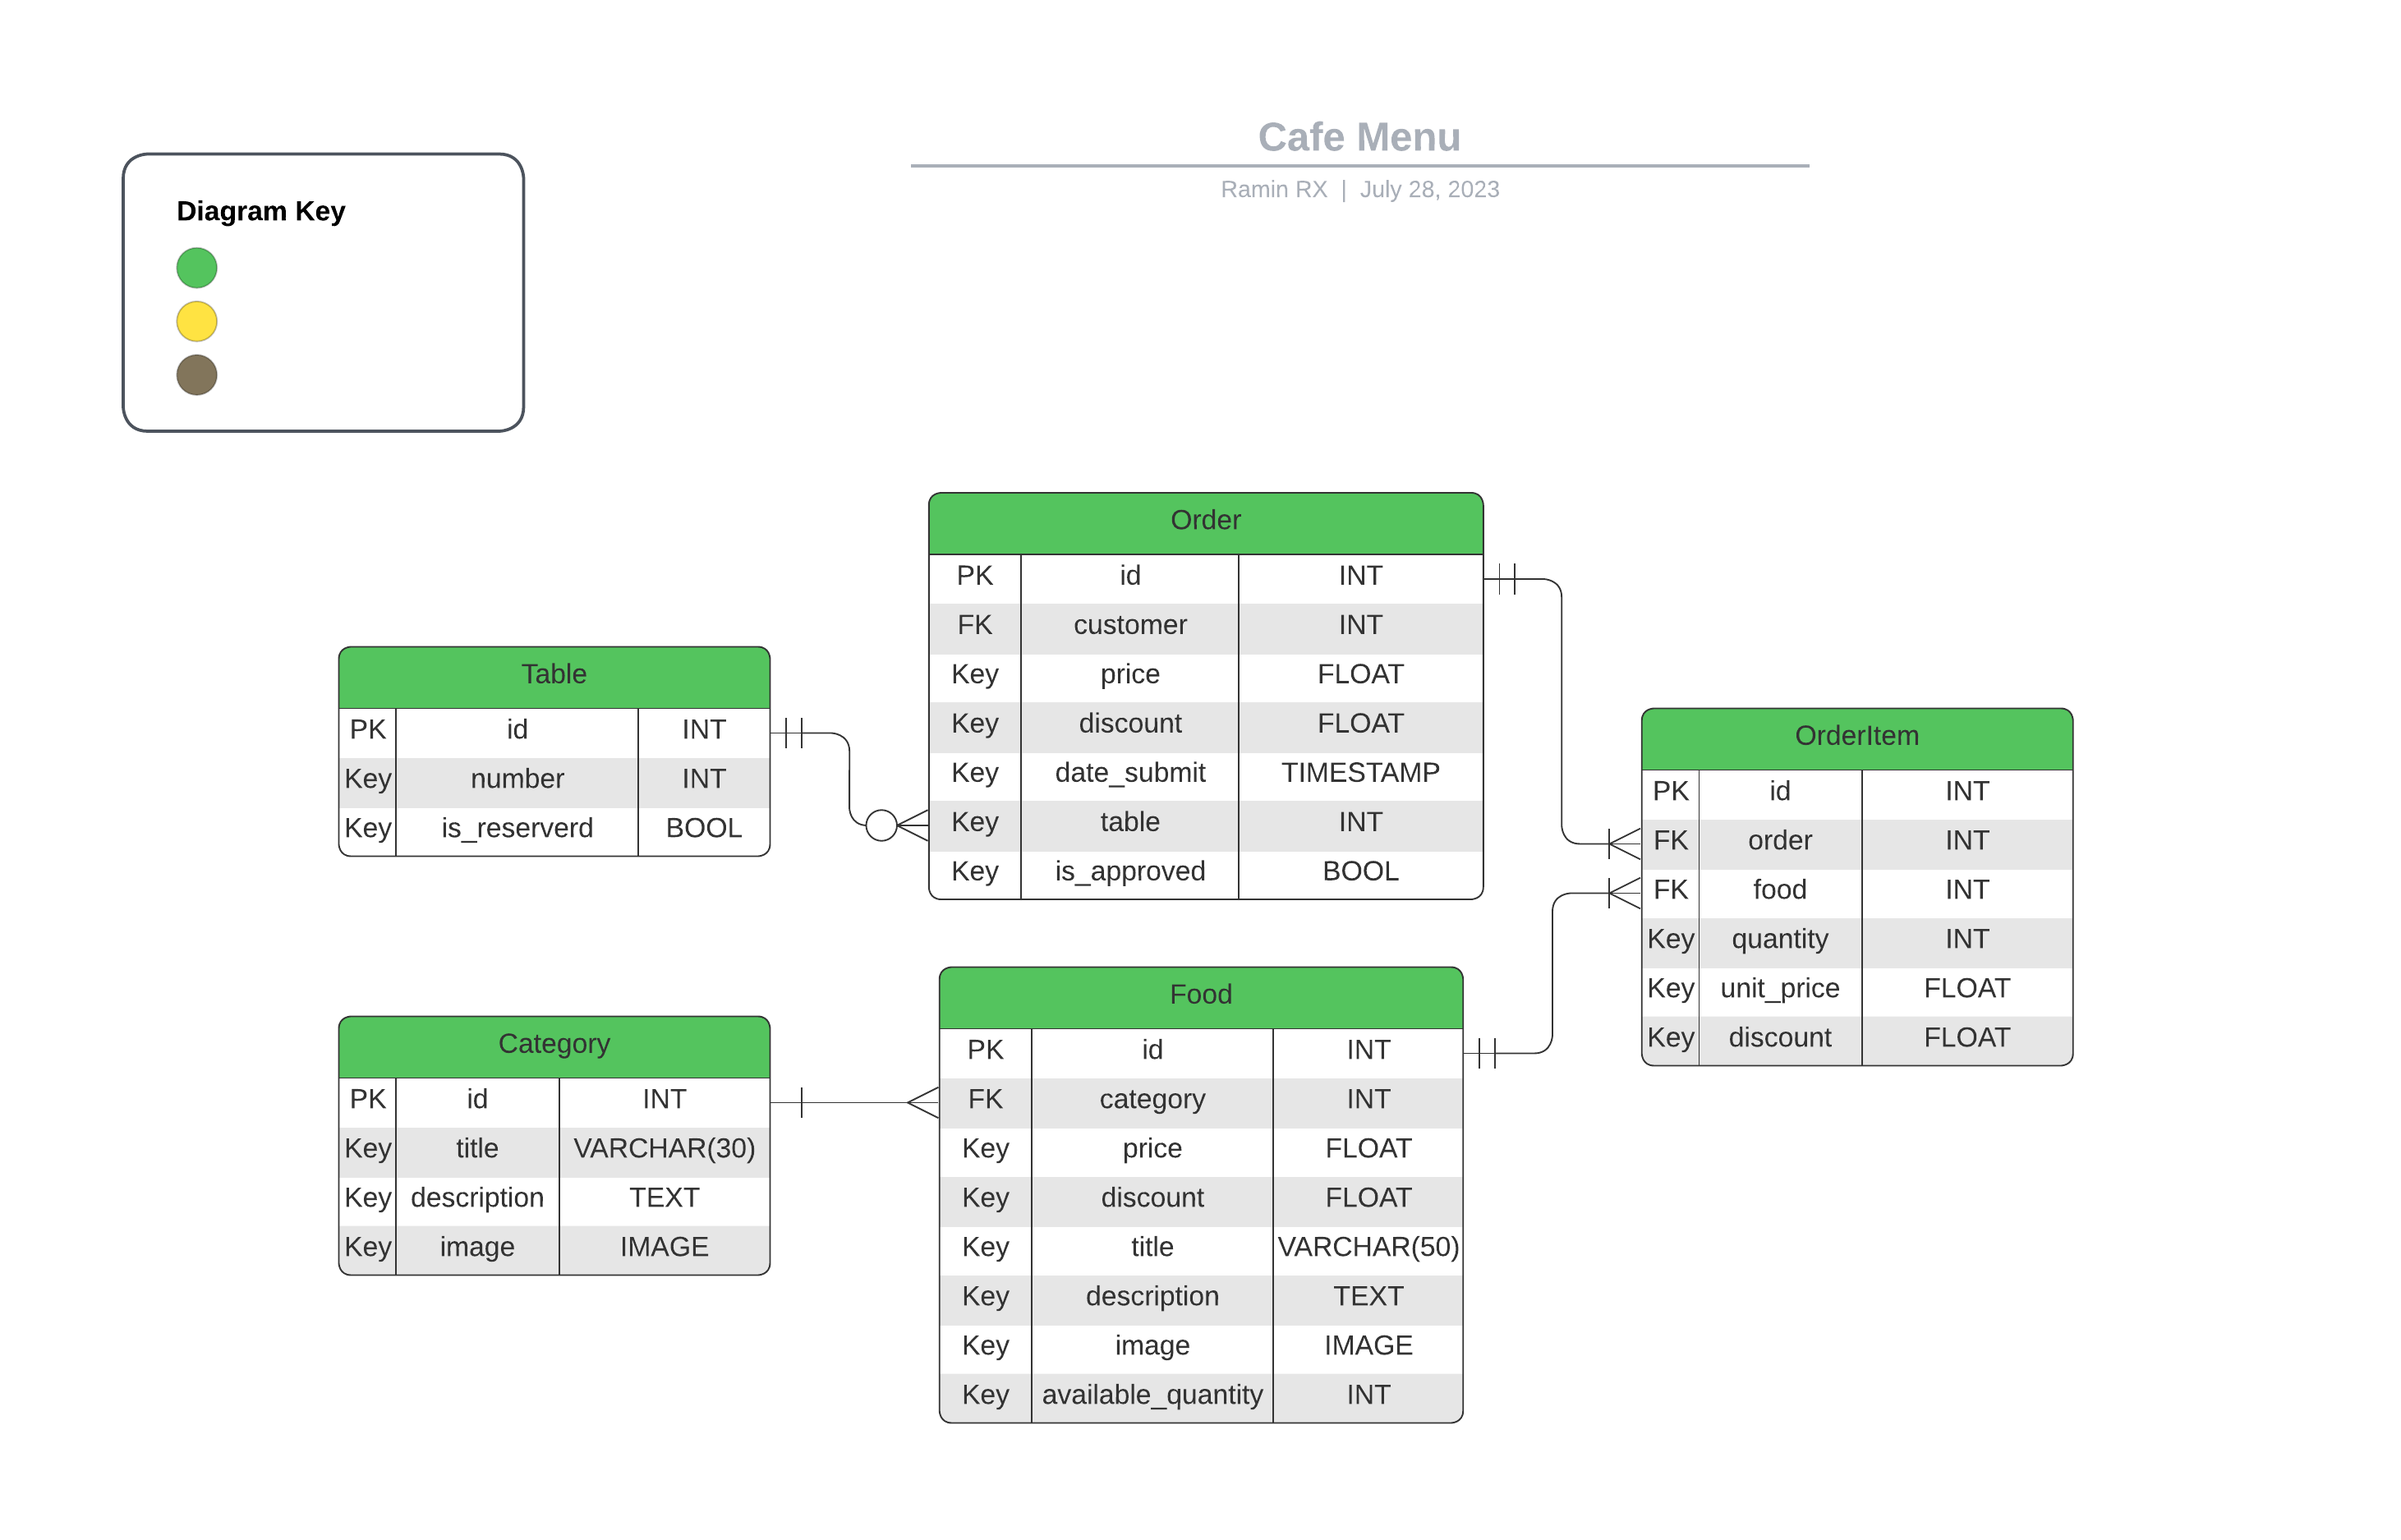
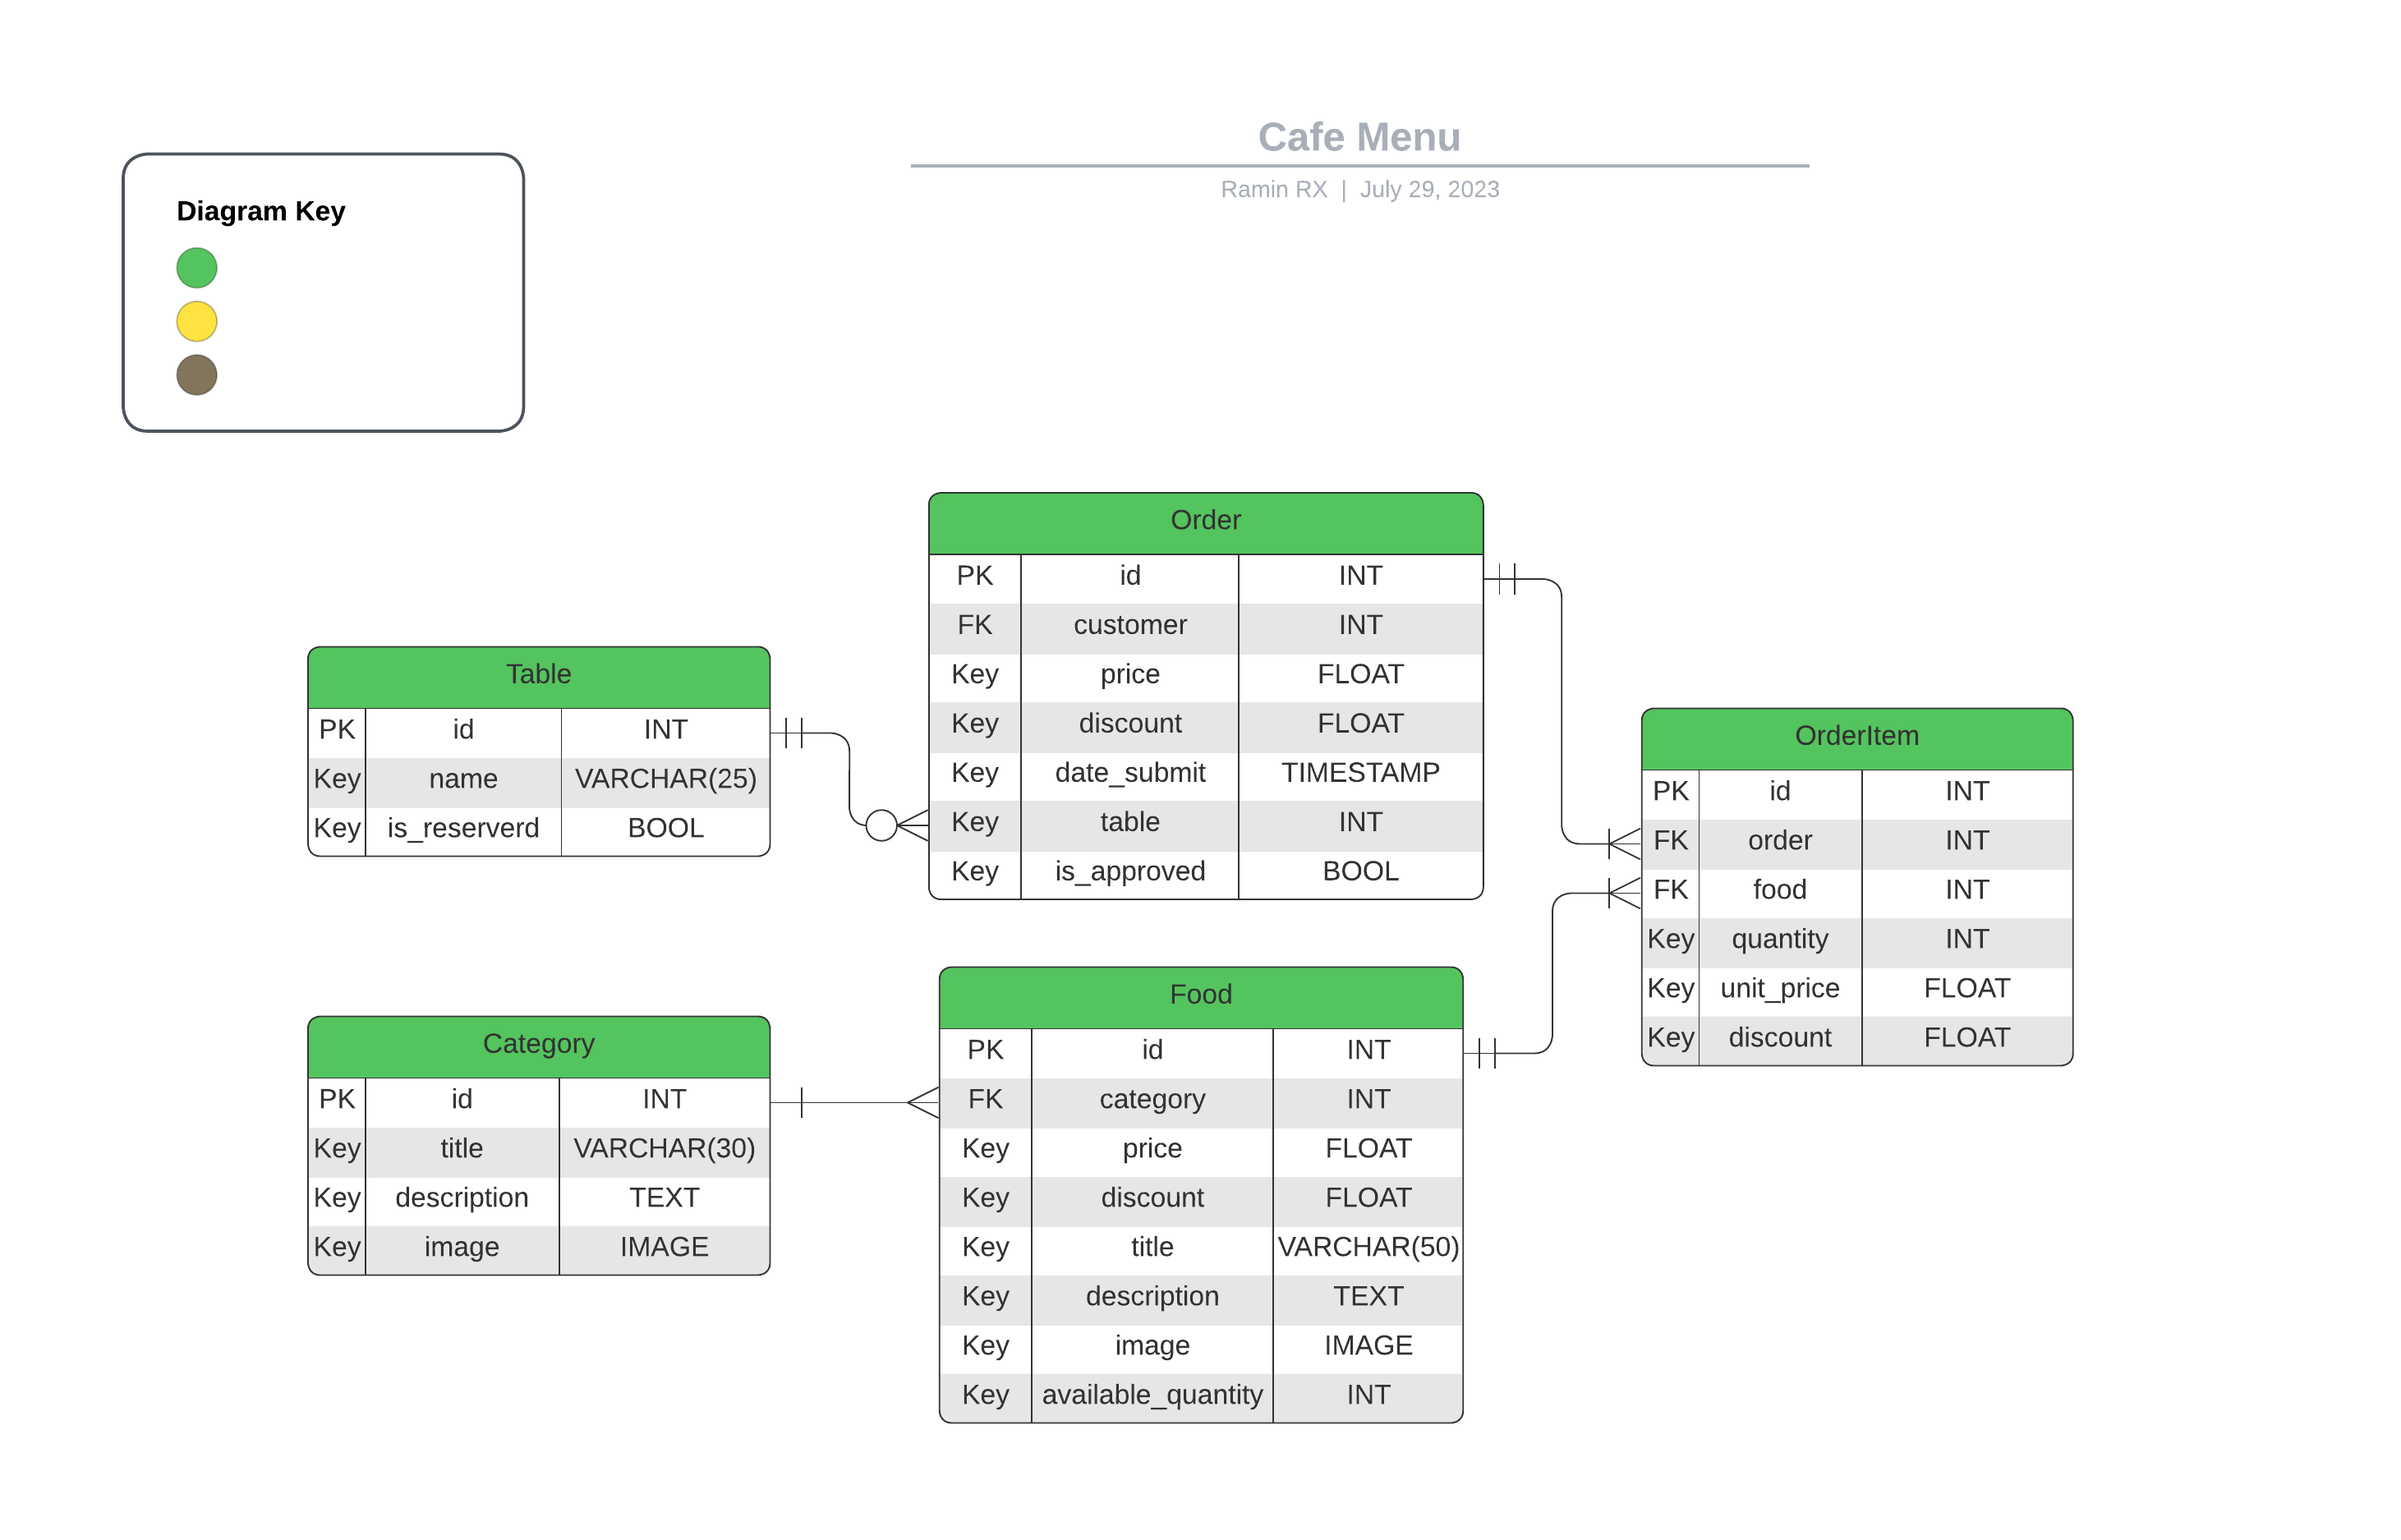
refactor: Table.number to Table.name in both ERD and Model with migrations

Changed region(s): [[0.1245, 0.4021, 0.3113, 0.5568], [0.1245, 0.6496, 0.2179, 0.8352], [0.2179, 0.4331, 0.2491, 0.464]]

diff --git a/src/orders/migrations/0001_initial.py b/src/orders/migrations/0001_initial.py
@@ -1,4 +1,4 @@
-# Generated by Django 4.2.1 on 2023-07-28 20:52
+# Generated by Django 4.2.1 on 2023-07-29 11:56
 
 from django.db import migrations, models
 import django.db.models.deletion
@@ -43,7 +43,7 @@ class Migration(migrations.Migration):
                         verbose_name="ID",
                     ),
                 ),
-                ("number", models.IntegerField()),
+                ("name", models.CharField(max_length=25, unique=True)),
                 ("is_reserved", models.BooleanField()),
             ],
         ),

diff --git a/src/orders/models.py b/src/orders/models.py
@@ -4,11 +4,11 @@ from foods.models import Food
 
 
 class Table(models.Model):
-    number = models.IntegerField()
+    name = models.CharField(unique=True, max_length=25)
     is_reserved = models.BooleanField()
 
     def __str__(self) -> str:
-        return f"{self.number} ({'reserved' if self.is_reserved else 'empty'})"
+        return f"{self.name} ({'reserved' if self.is_reserved else 'empty'})"
 
 
 class Order(models.Model):
